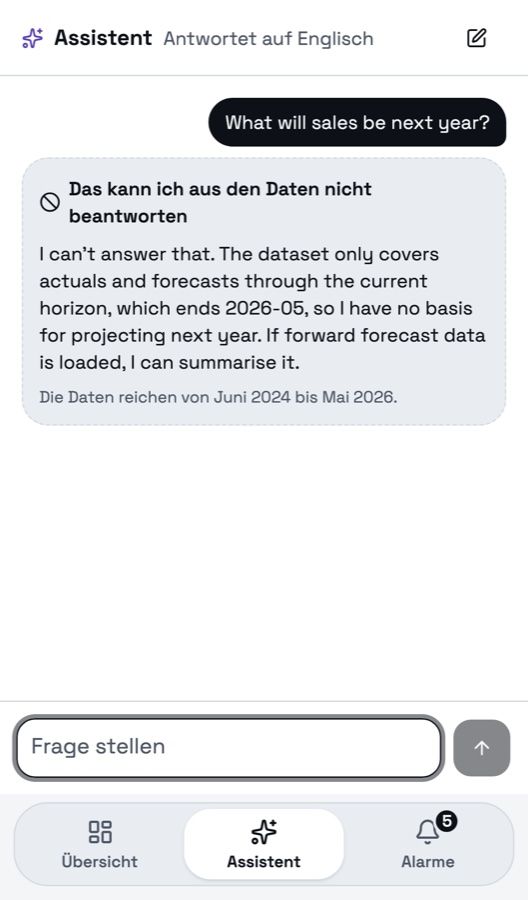
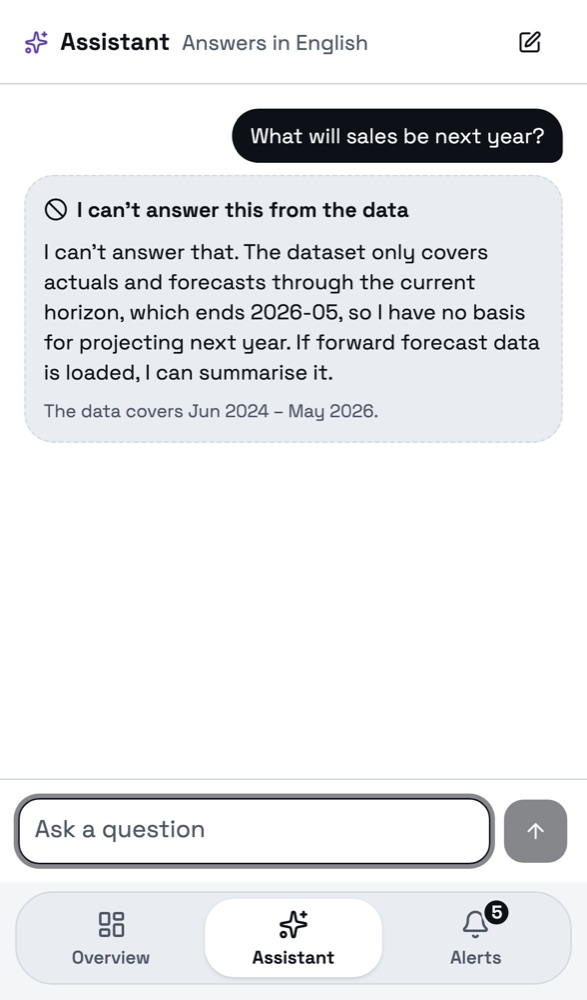
docs(1.0.1): README — phone screenshots in English

diff --git a/README.md b/README.md
@@ -25,11 +25,11 @@ Take-home assignment for the Frontend Engineer role at NewPage Solutions.
 | Heat map, markets × months. Germany's March 2026 dip (−31 %) is marked with a warning sign. | Alerts: what fires now, the rules, and a switch that fails the next save to show the rollback. |
 
 <p>
-  <img src="docs/screenshots/phone-overview-de.jpg" width="260" alt="Phone, German: Europe overview with the tab bar">
-  <img src="docs/screenshots/phone-assistant-abstain.jpg" width="260" alt="Phone, German: the assistant says it cannot answer from the data">
+  <img src="docs/screenshots/phone-overview.jpg" width="260" alt="Phone: the Europe overview with the tab bar">
+  <img src="docs/screenshots/phone-assistant-abstain.jpg" width="260" alt="Phone: the assistant says it cannot answer from the data">
 </p>
 
-Phone, in German: the Europe overview, and the assistant refusing a question the data cannot answer.
+Phone: the Europe overview, and the assistant refusing a question the data cannot answer.
 
 ## Contents
 

diff --git a/CHANGELOG.md b/CHANGELOG.md
@@ -5,6 +5,7 @@ Format: [Keep a Changelog](https://keepachangelog.com/en/1.1.0/). Versioning: [S
 ## [1.0.1] - 2026-11-08
 
 ### Changed
+- The two phone screenshots in the README are now in English (were German).
 - Lighthouse measured again on production 1.0.0, in Chrome: desktop 99, mobile 81 (was 68 on 0.15.0). The README shows both reports as screenshots and says why SEO is 63. The same numbers in `docs/requirements-map.md` and the backlog.
 - The agent skills are no longer copied into the repo: `docs/agent-skills.md` lists each with a link to its source and what it was used for. The lint and Prettier exceptions for `.claude/skills/` are gone with the folder.
 - The backlog is rewritten for a reader: what is next, the trade-offs kept on purpose and why, and what is being watched; internal notes and closed items removed.
